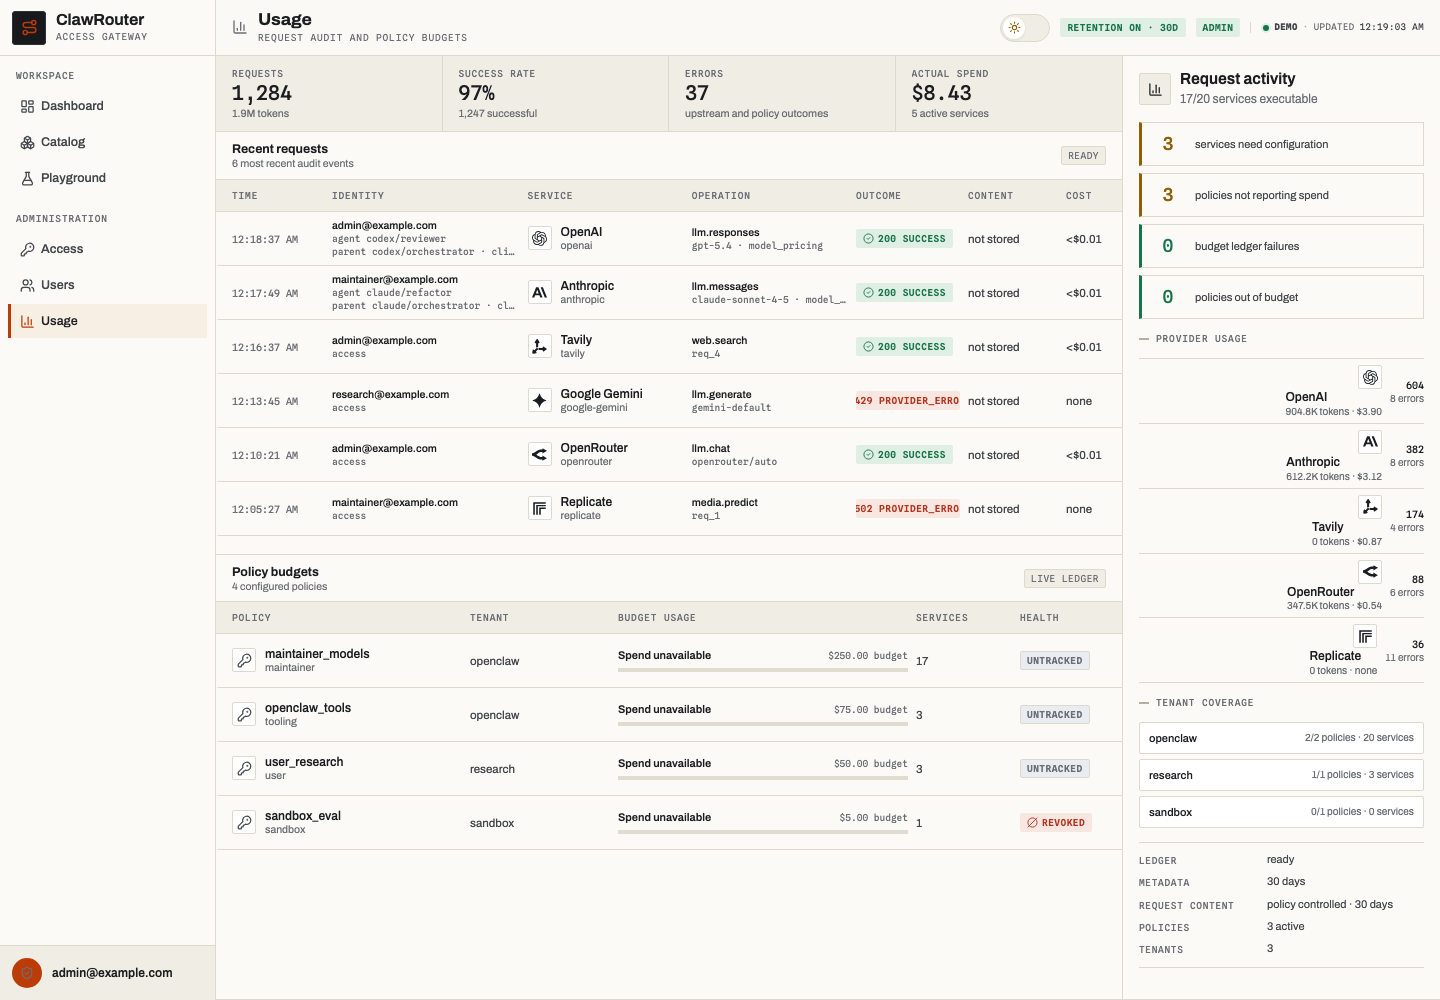
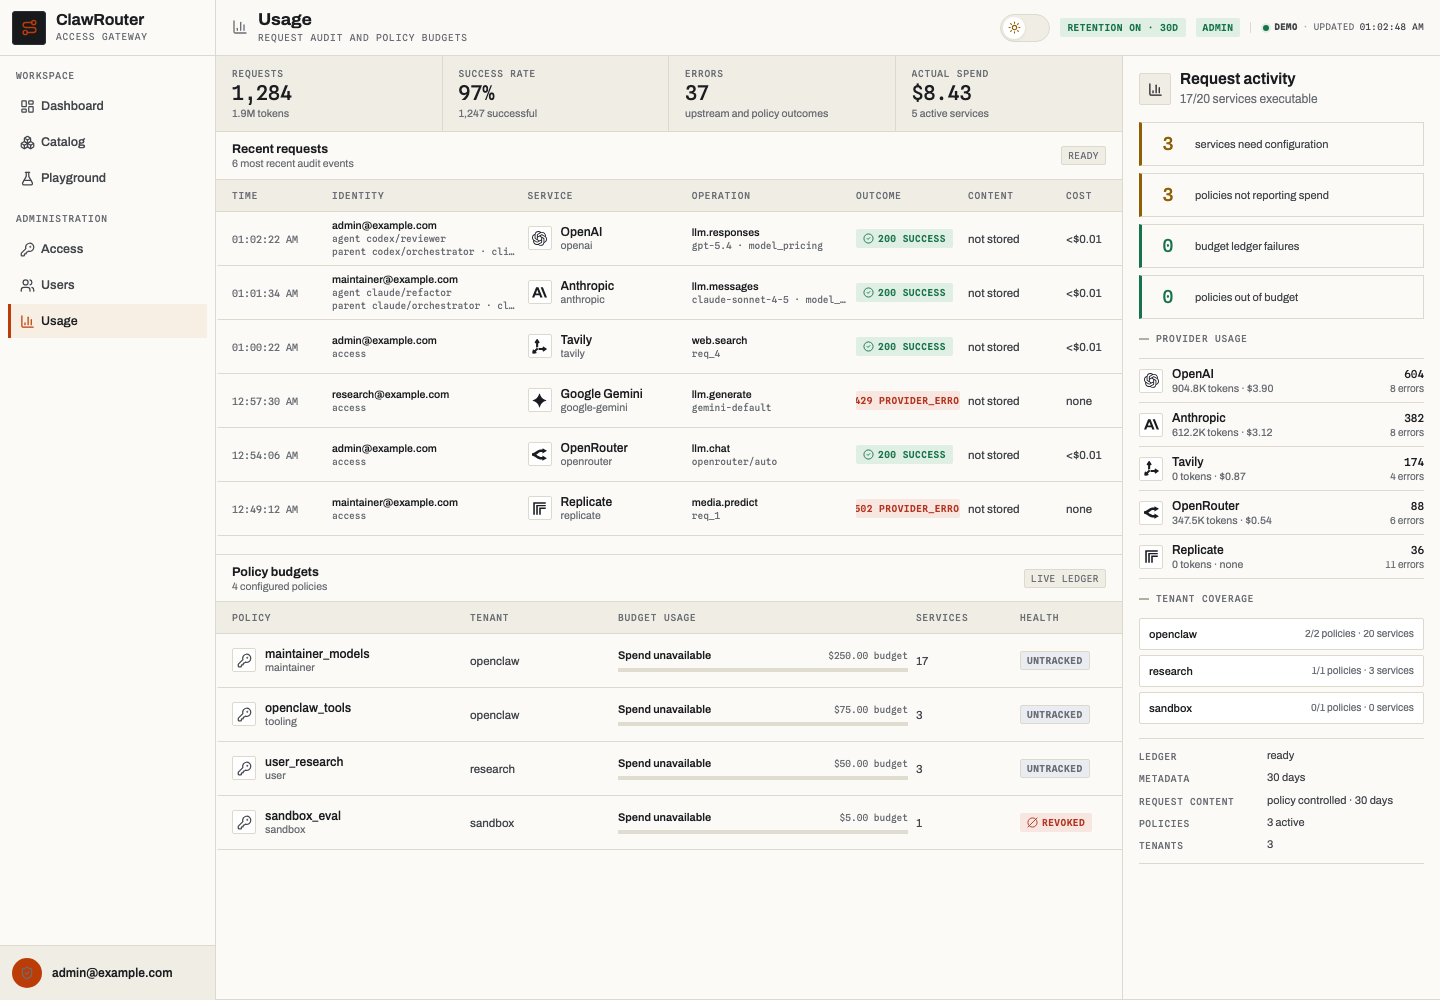
fix(admin): stop provider-usage rows from grid-stacking the entity name
.providerUsageList > div > span also matched the row's .entityName (a
direct span child), forcing it into a right-aligned grid that stacked
the icon above the name. Scope the count column to :last-child and
right-align its numerals; refresh the usage screenshot.

Changed region(s): [[0.7812, 0.372, 1.0, 0.93], [0.7812, 0.899, 0.8438, 0.961]]

diff --git a/admin/src/styles/usage.css b/admin/src/styles/usage.css
@@ -188,24 +188,28 @@
   padding: 6px 0;
 }
 
-.providerUsageList > div > span {
+/* :last-child keeps this off the row's .entityName, which is also a direct
+   span child — an unscoped selector here grid-stacks the icon and name. */
+.providerUsageList > div > span:last-child {
   display: grid;
   justify-items: end;
   gap: 2px;
+  text-align: right;
 }
 
-.providerUsageList > div > span strong {
+.providerUsageList > div > span:last-child strong {
   color: var(--ink);
   font-family: var(--font-mono);
-  font-size: 10px;
+  font-size: 11px;
   font-weight: 500;
   font-variant-numeric: tabular-nums;
 }
 
-.providerUsageList > div > span small,
+.providerUsageList > div > span:last-child small,
 .providerUsageList > p {
   color: var(--muted);
   font-size: 10px;
+  white-space: nowrap;
 }
 
 .retainedContent {